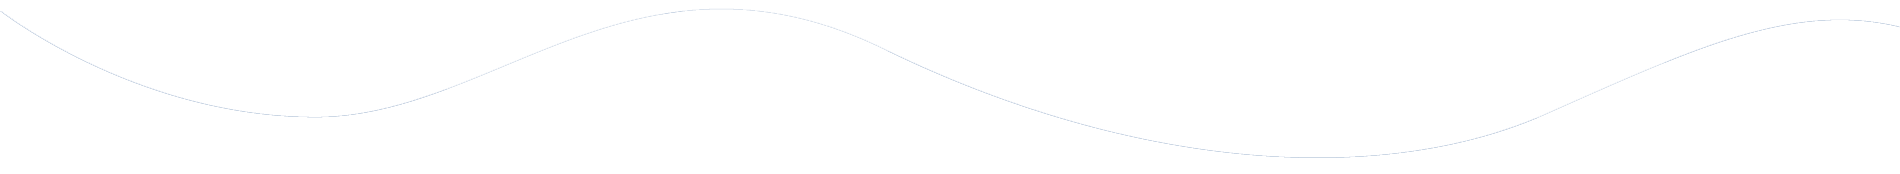
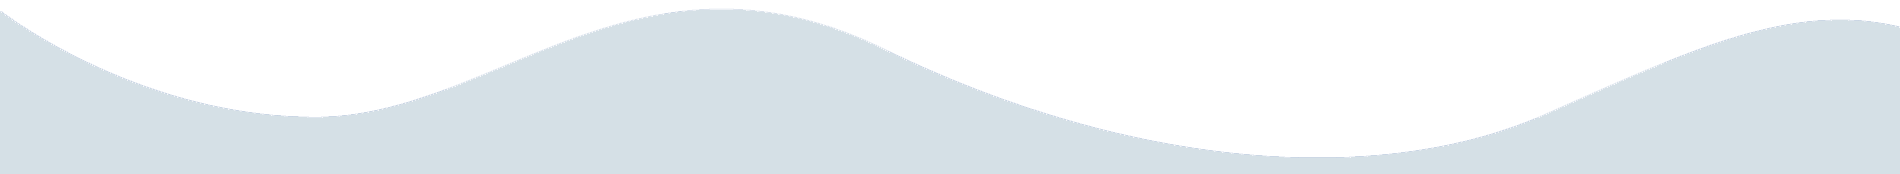
Made very little changed tried out color scemes

diff --git a/style.css b/style.css
@@ -18,7 +18,7 @@ body
 
 .navbar
 {
-    background-image: linear-gradient(to right, #a517ba, #5f1782);
+    background-image: linear-gradient(to right, #497285, #f5e1da); 
     padding: 0 !important;
 }
 
@@ -58,7 +58,7 @@ body
 
 #banner
 {
-    background-image: linear-gradient(to right, #a517ba, #5f1782);
+    background-image: linear-gradient(to right, #497285, #f5e1da);
     color: #fff;  
     padding-top: 5%;
 }
@@ -92,6 +92,7 @@ body
 #services
 {
     padding: 80px 0;
+		background-color: #d5e0e6;
 }
 
 .service-img
@@ -142,14 +143,14 @@ body
     box-shadow: none;
     padding: 8px 25px;
     border: none;
-    background-image: linear-gradient(to right, #a517ba, #5f1782);
+    background-color: #497285;
 }
 
 /*------------------ About Us ---------------------*/
 
 #about-us
 {
-    background: #f8f9fa;
+    background: #bfcad9;
     padding-bottom: 50px;
     padding-top: 50px;
 }
@@ -224,7 +225,7 @@ body
 
 #footer
 {
-    background-image: linear-gradient(to right, #a517ba, #5f1782);
+    background-image: linear-gradient(to right, #497285, #f5e1da);
     color: #fff;
 }
 
@@ -255,7 +256,7 @@ body
     text-align: center;
     padding-top: 7px;
     border-radius: 2px;
-    background-image: linear-gradient(to right, #a517ba, #5f1782);
+    background-color: #497285;
 }
 
 .footer-box .form-control
@@ -273,7 +274,7 @@ body
     border: none;
     border-radius: 0;
     margin-top: 30px;
-    background-image: linear-gradient(to right, #a517ba, #5f1782);
+    background-color: #497285;
 }
 
 hr
